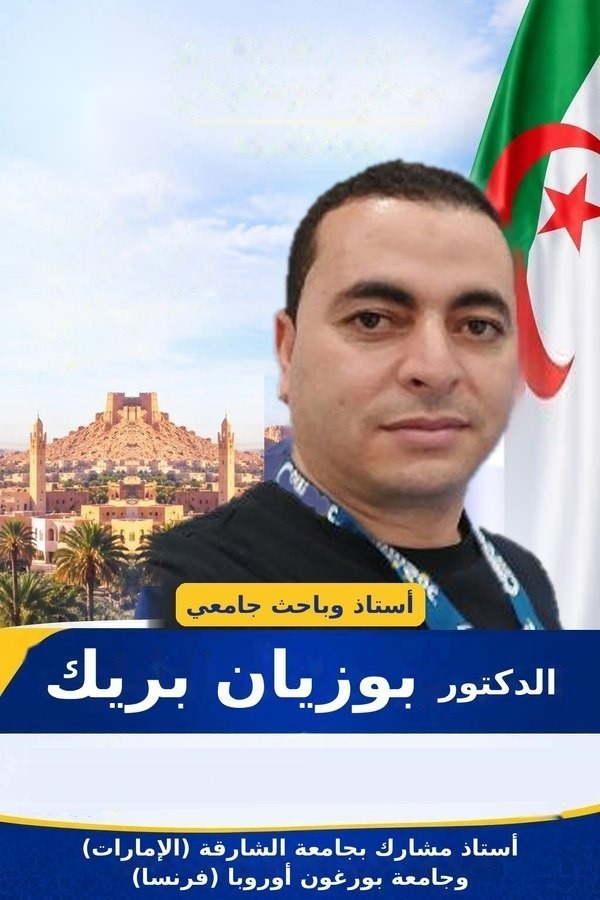
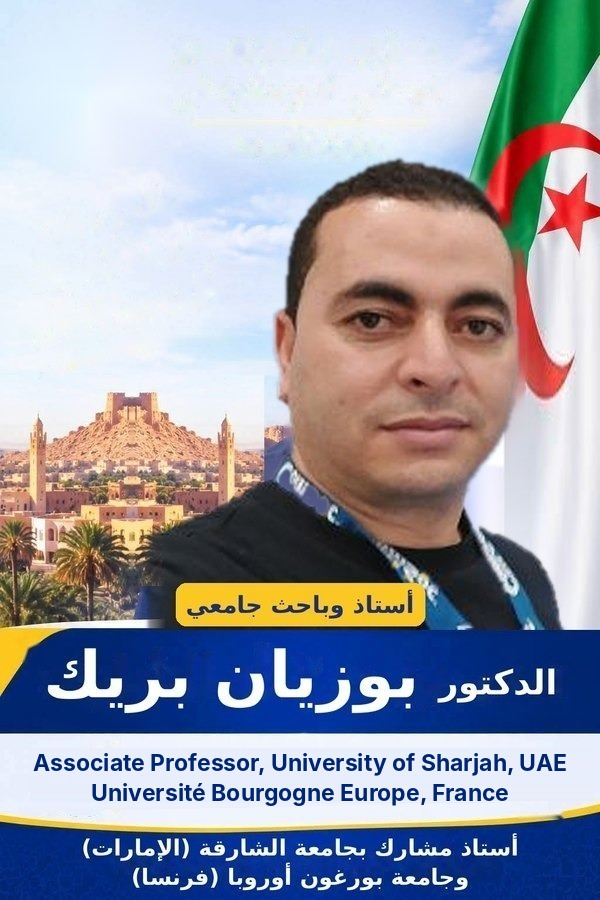
Add English affiliations to poster
Claude-Session: https://claude.ai/code/session_01CfUQy14MRTogfavWnGqCcX

Changed region(s): [[0.06, 0.84, 0.96, 0.9022]]

diff --git a/index.html b/index.html
@@ -42,7 +42,7 @@
       <p class="role">Associate Professor (tenured) of Computer Science, building <em>trustworthy AI</em> for the autonomous management of 5G/6G networks.</p>
       <div class="btns"><a class="pri" href="publications.html">Publications</a><a href="research.html">Research</a><a href="https://scholar.google.fr/citations?user=c3EPy9sAAAAJ&amp;hl=fr" target="_blank" rel="noopener">Scholar</a><a href="https://dblp.org/pid/133/4736.html" target="_blank" rel="noopener">DBLP</a><a href="https://www.scopus.com/authid/detail.uri?authorId=55490670200" target="_blank" rel="noopener">Scopus</a><a href="https://orcid.org/0000-0002-3267-5702" target="_blank" rel="noopener">ORCID</a></div>
     </div>
-    <div class="portrait-wrap"><img class="portrait" src="images/bouziane-brik.jpg?v=2" width="600" height="900" alt="Poster of Dr. Bouziane Brik"></div>
+    <div class="portrait-wrap"><img class="portrait" src="images/bouziane-brik.jpg?v=3" width="600" height="900" alt="Poster of Dr. Bouziane Brik"></div>
   </div>
 </section>
 <div class="shell gut">
